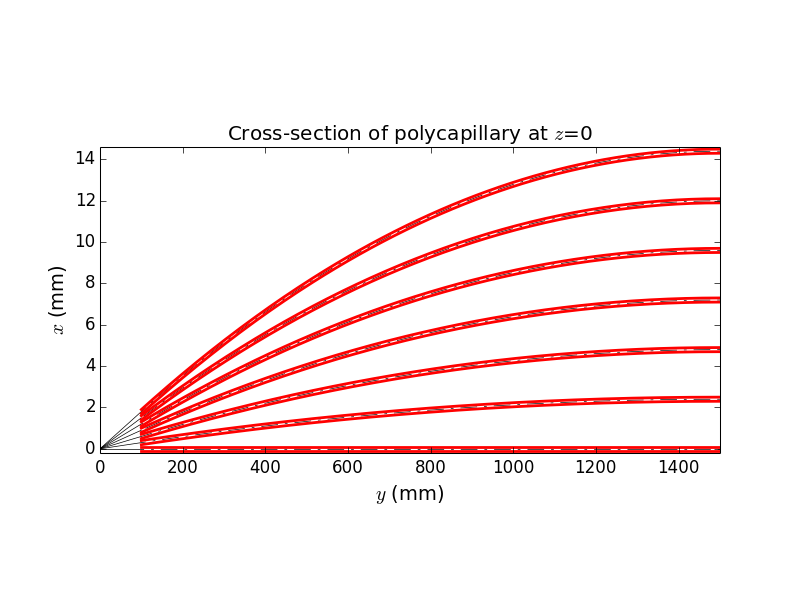
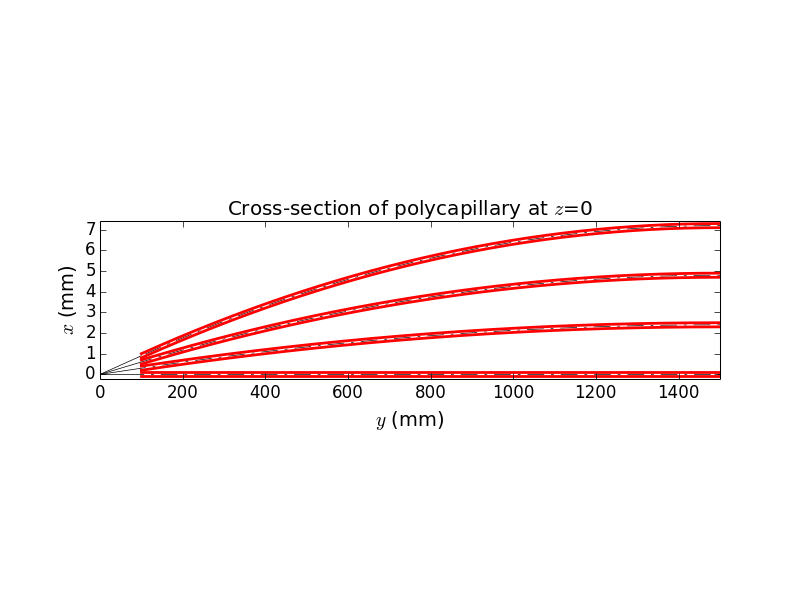
some limPhysY change ?

diff --git a/myCapillary0A.py b/myCapillary0A.py
@@ -26,7 +26,7 @@ rSample = 100.
 f = 1500. # y length in mm from foucs to the end of the lens
 r0 = 0.1
 wall = 0.05
-layers = 7 # number of hexagonal layers
+layers = 4 # number of hexagonal layers
 nRefl = 12
 nReflDisp = 12
 xzPrimeMax = 3.
@@ -114,7 +114,7 @@ def build_beamline(nrays=1000):
                 roll = roll1 + i*np.pi/3.
                 capillary = BentCapillary(
                     beamLine, 'BentCapillary', [0, 0, 0], roll=roll,
-                    material=mGlass, limPhysY=[rSample*np.cos(alpha), f],
+                    material=mGlass, limPhysY=[rSample*np.cos(alpha), f*4/5],
                     f=f, rSample=rSample, entranceAlpha=alpha, rIn=r0, rOut=r0)
                 beamLine.capillaries.append(capillary)
                 if beamLine.xzMax < capillary.b0:
@@ -126,7 +126,7 @@ def build_beamline(nrays=1000):
 #    beamLine.sources[0].dxprime = (np.arcsin((2*n-3) * (r0+wall) / rSample),
 #        np.arcsin((2*n+1) * (r0+wall) / rSample))
 #    beamLine.sources[0].dxprime = 0, np.arcsin(r0 / rSample)
-    beamLine.fsm2 = rsc.Screen(beamLine, 'DiamondFSM2', (0, 16*f, 0))
+    beamLine.fsm2 = rsc.Screen(beamLine, 'DiamondFSM2', (0, f, 0))
     return beamLine
 
 def run_process(beamLine, shineOnly1stSource=False):
